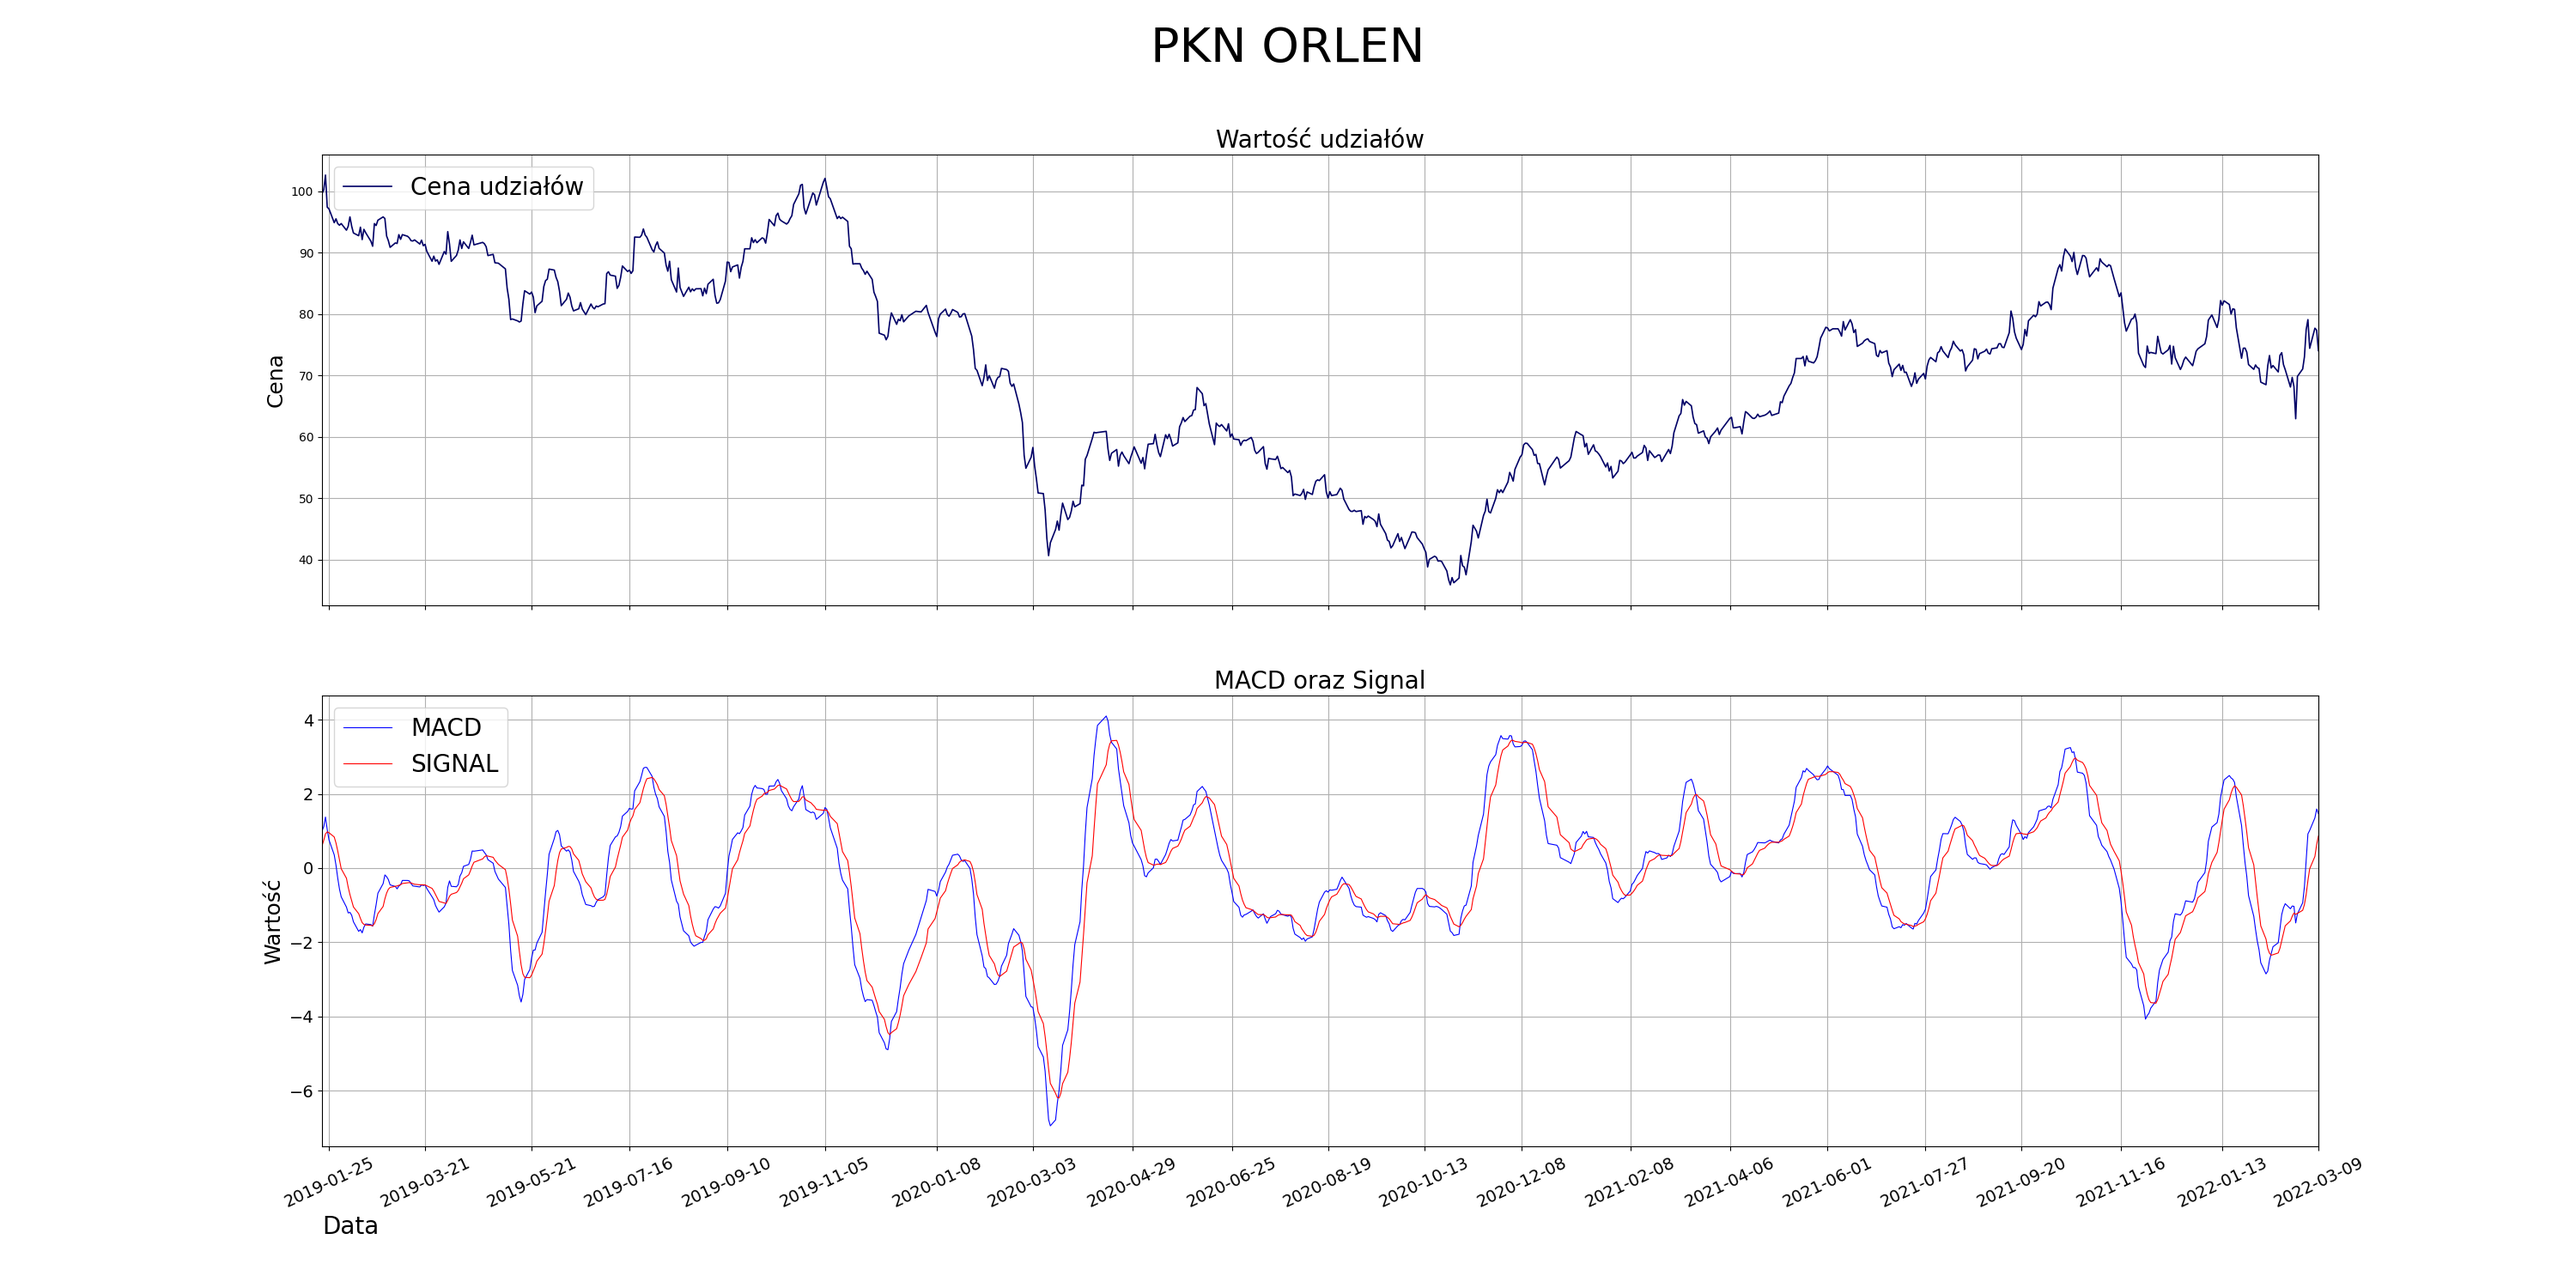
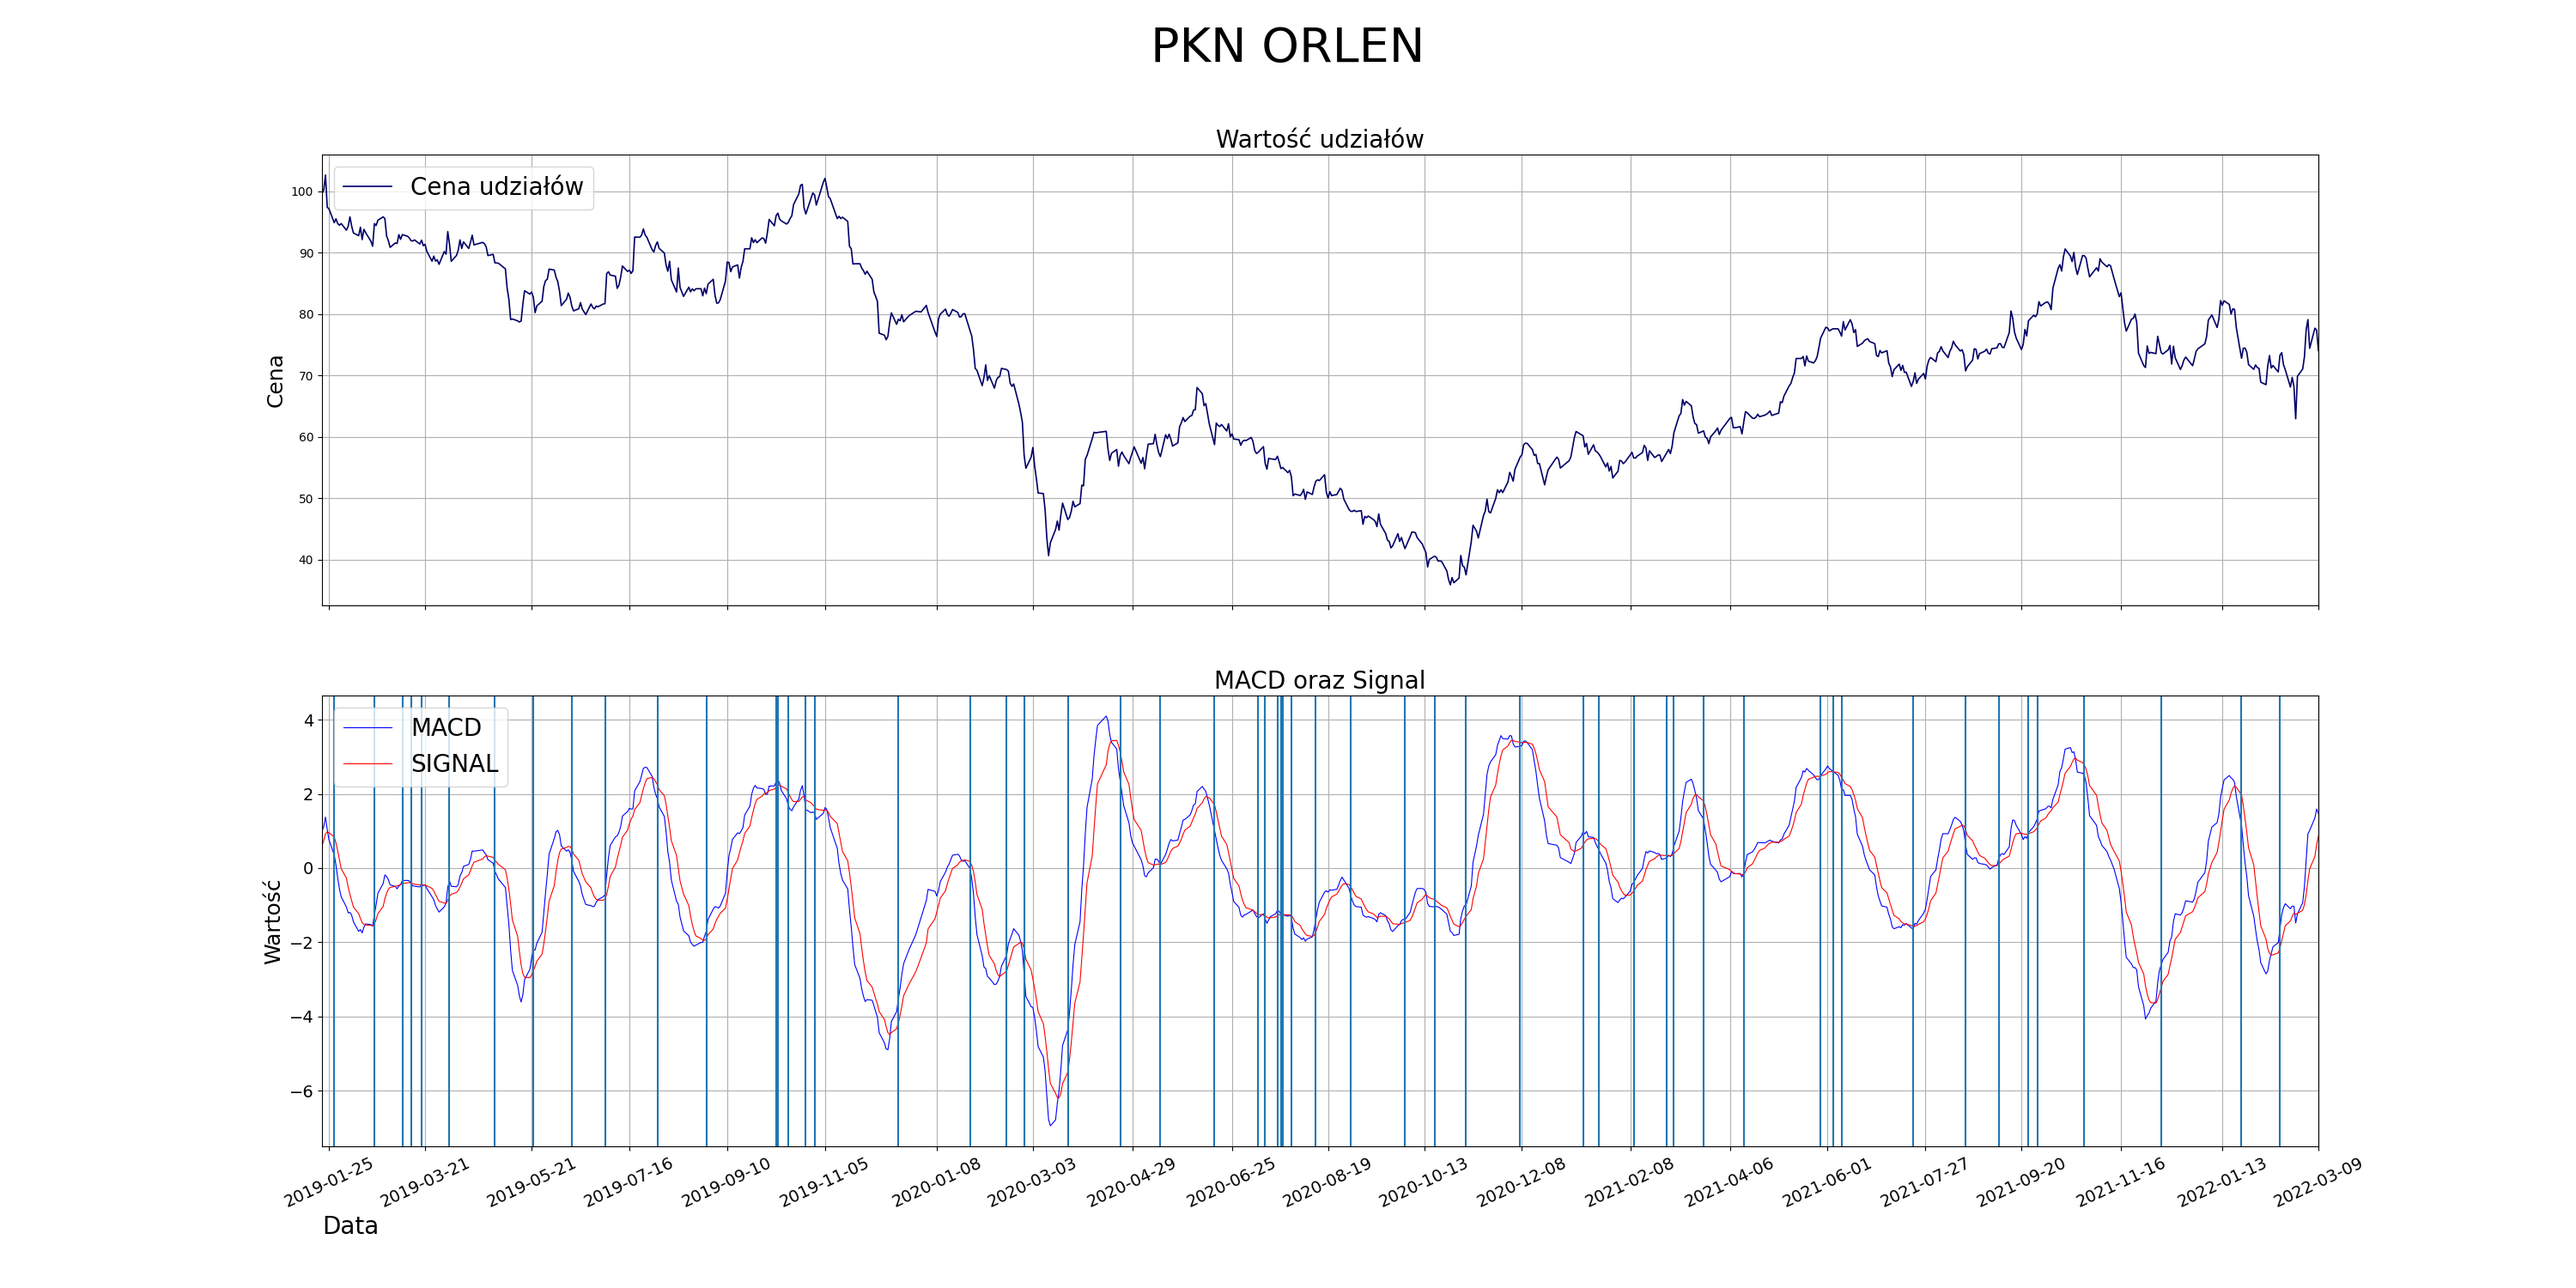
Projekt1 - dodanie linii kupna i sprzedaży
- linie w punktach kupna i sprzedazy
- TODO - dopisać je do legendy

Changed region(s): [[0.496, 0.552, 0.527, 0.8893]]

diff --git a/Projekt1 - MACD/Projekt1/miscFunctions.py b/Projekt1 - MACD/Projekt1/miscFunctions.py
@@ -48,6 +48,30 @@ def drawMainPlot(dates, values, macd, signal, indexname):
     ax2.plot(dates[35:], macd[9:], color='b', label="MACD", linewidth=0.8)
     ax2.plot(dates[35:], signal, color='r', label="SIGNAL", linewidth=0.8)
 
+    # zaczynamy od 1 bo będziemy sprawdzać poprzedni
+    sellPoints = []
+    buyPoints = []
+    for i in range(1, len(signal)):
+        if signal[i] == macd[i+9]:
+            ax1.axvline(dates[i+35])
+            continue
+        else:
+            prevDifference = macd[i-1+9] - signal[i-1]
+            currentDifference = macd[i+9] - signal[i]
+            if prevDifference >= 0 and currentDifference <= 0:
+                # moment sprzedarzy
+                sellPoints.append(dates[i+35])
+            elif prevDifference <= 0 and currentDifference >=0:
+                # moment kupna
+                buyPoints.append(dates[i+35])
+
+
+    for i in sellPoints:
+        ax1.axvline(i, linewidth=0.75, color='r', linestyle='dashed')
+    for i in buyPoints:
+        ax1.axvline(i, linewidth=0.75, color='g', linestyle='dashed')
+
+
     # rozmiar wykresu
     fig.set_size_inches(30, 15)
     fig.set_dpi(50)

diff --git a/Projekt1 - MACD/Projekt1/main.py b/Projekt1 - MACD/Projekt1/main.py
@@ -5,8 +5,8 @@ import miscFunctions
 
 
 # definicja plików wejsciowych i nazwy indeksu ktory bedziemy analziowac
-csvFilepath = 'ORLEN.csv'
-indexname = 'PKN ORLEN'
+csvFilepath = 'asseco.csv'
+indexname = 'Asseco'
 
 # pobranie danych z pliku csv
 dates, values = miscFunctions.importCSVData(csvFilepath)
